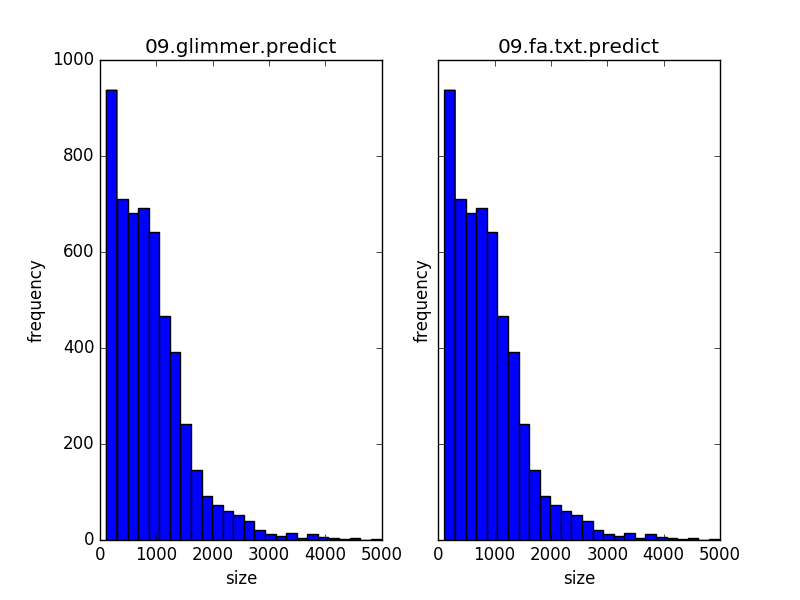
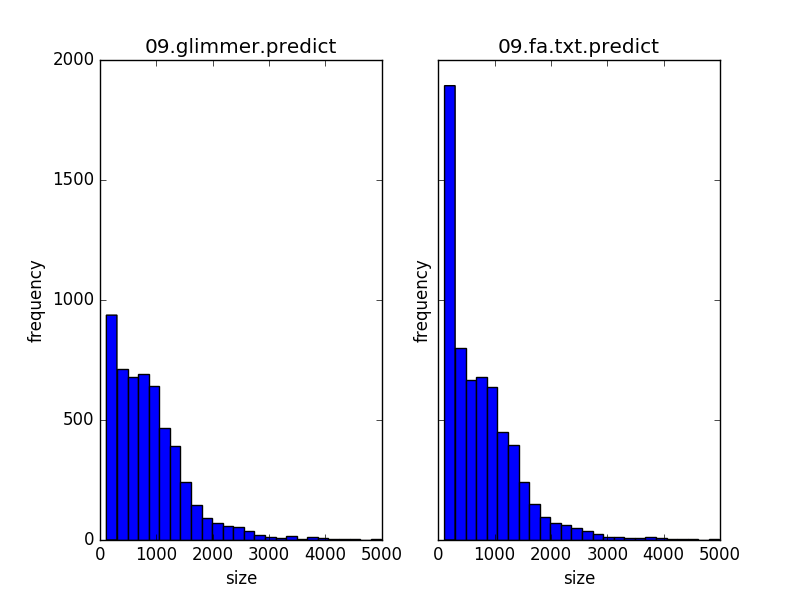
update

diff --git a/project/scripts/glimmer_evaluation/plotGeneLength.py b/project/scripts/glimmer_evaluation/plotGeneLength.py
@@ -11,7 +11,7 @@ with open(inFile) as f1:
         length = abs(int(line.split()[1])-int(line.split()[2]))
         lengths.append(length)
 
-with open(inFile) as f2:
+with open(inFile2) as f2:
     lengths2 = []
     lines2 = f2.readlines()[1:]
     for line2 in lines2:
